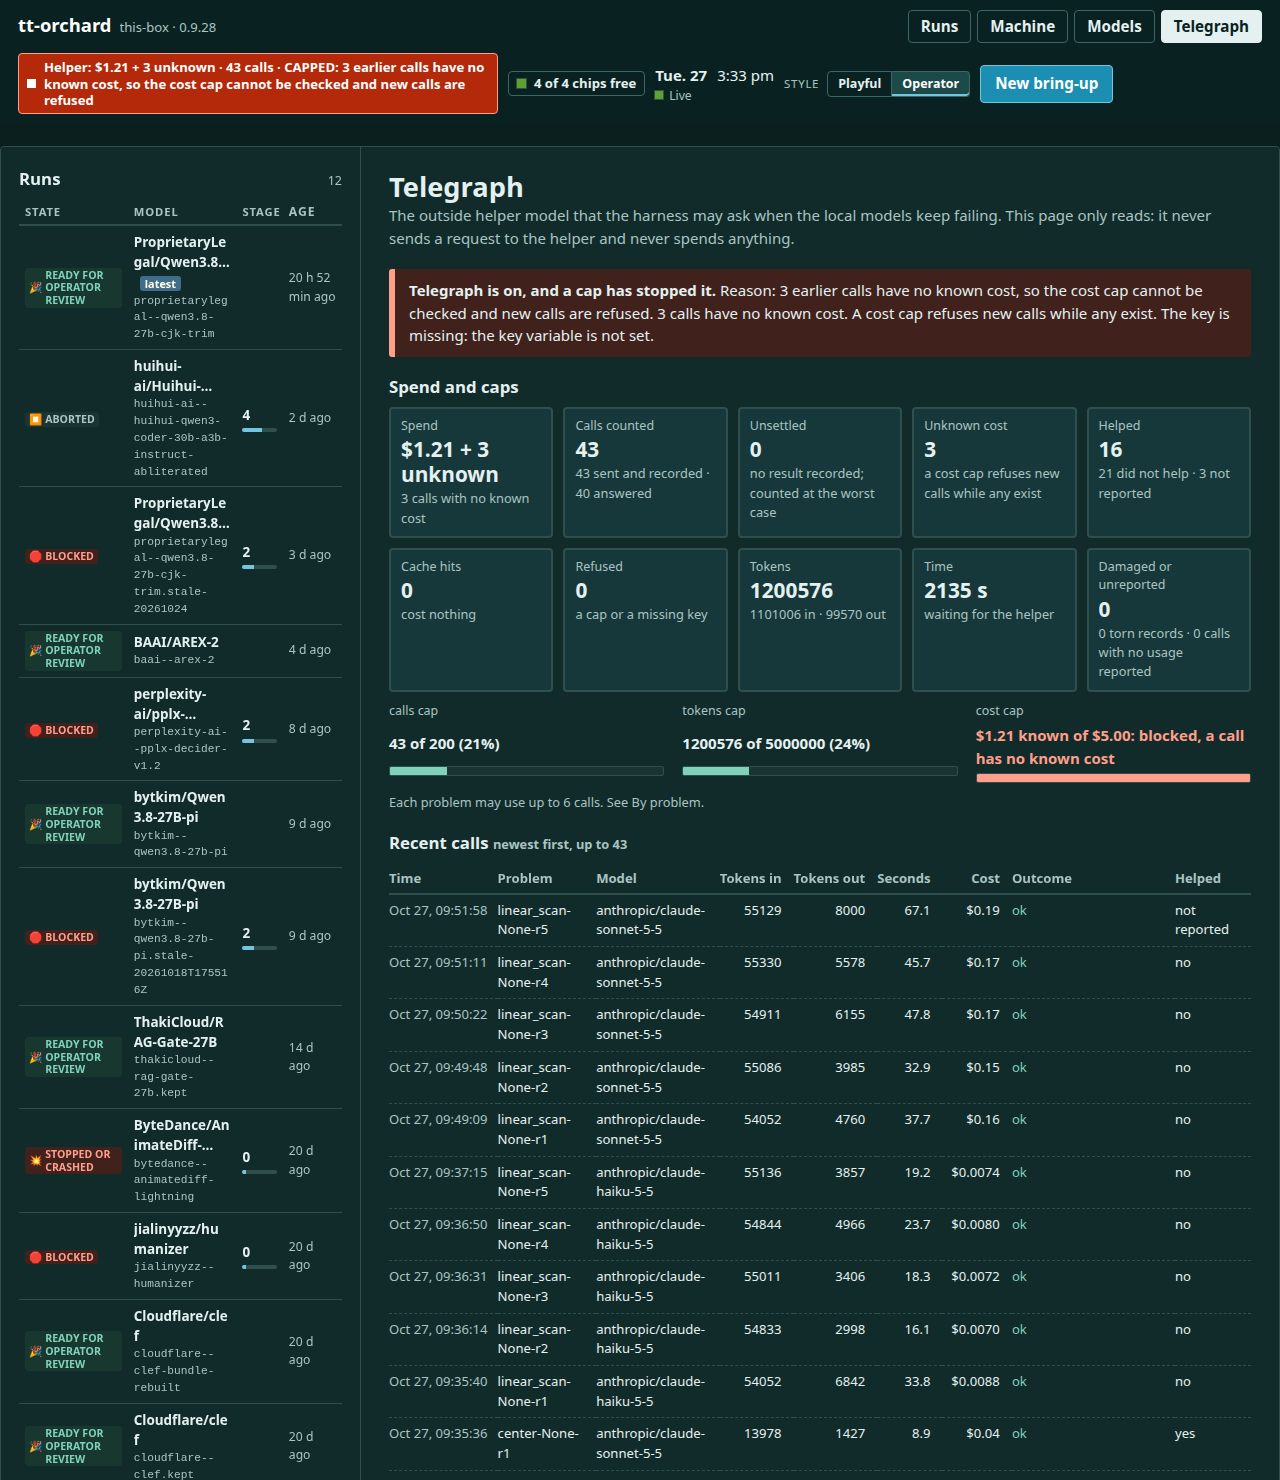
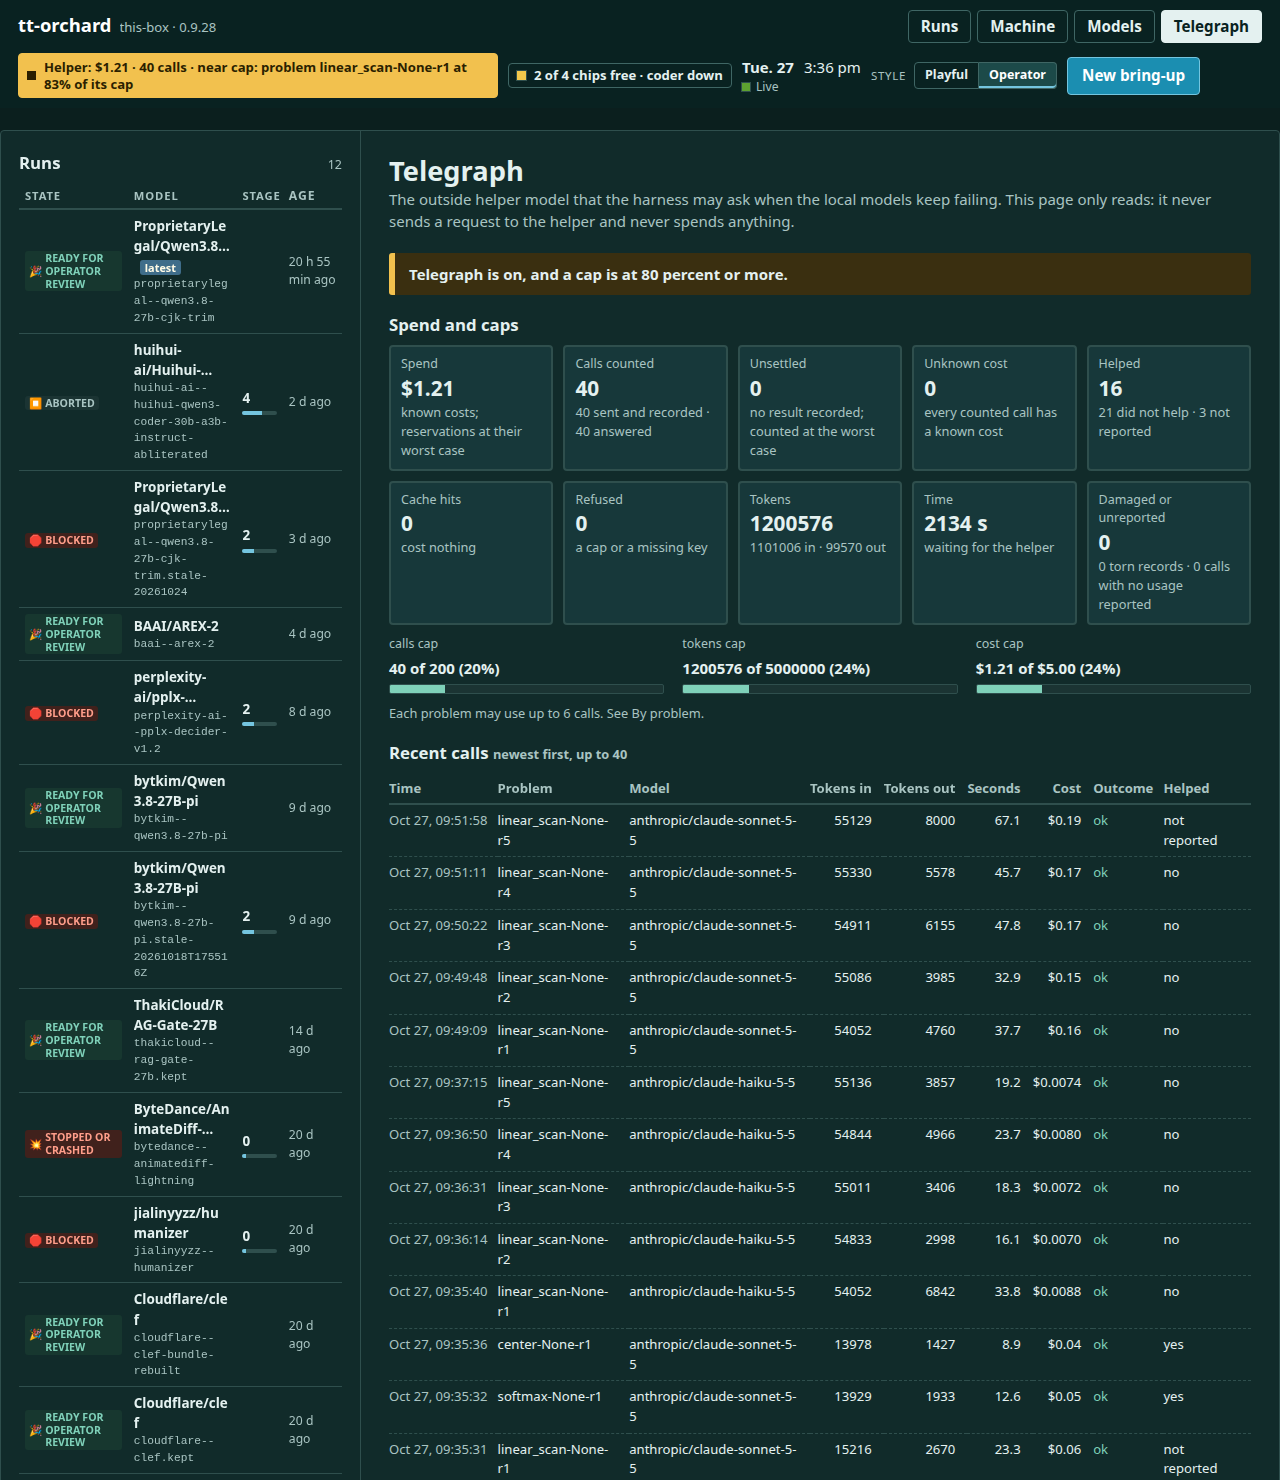
docs: Telegraph screenshots without the three failed calls (40 calls, $1.21); captions follow

diff --git a/site/index.html b/site/index.html
@@ -457,7 +457,7 @@
   const CAP = {
     running: "A run in progress, taken while a real validation run was in stage 2: the coder model is parked while a test uses its boards. The page says what is happening now and what, if anything, to do next, and sets each result against what it should be.",
     finished: "A finished run: each stage with its wall time. Stages 3, 5 and 6 are skipped by design on a weights-only model.",
-    telegraph: "The Telegraph view, reading the ledger of 43 real helper calls made while testing which outside model fixes a failing kernel fastest ($1.21 in all). The page only reads the ledger and spends nothing. It is in the capped state because three earlier calls (to a wrong endpoint, so they errored) have no known cost, and a cost cap cannot be checked while any exist. The configuration shown is a placeholder: an example host and no key.",
+    telegraph: "The Telegraph view, reading the ledger of 40 real helper calls made while testing which outside model fixes a failing kernel fastest ($1.21 in all). The page only reads the ledger and spends nothing. The meter is amber because one problem has used 5 of the 6 calls the configuration allows it. The configuration shown is a placeholder: an example host and a dummy key variable.",
     blocked: "A blocked run: the reason, what was tried, and a verdict line that sets the numbers against what they should be. This one found a reference check that failed while the agent's file said it passed.",
   };
   const shot = { k: "running", m: "operator" };

diff --git a/docs/project-log.md b/docs/project-log.md
@@ -2571,7 +2571,7 @@ Two findings Copilot left open on PR 109 were filed as issues. Each is fixed tes
 
 ## 2026-10-28 (UTC): the telegraph log is backfilled, and the Telegraph view is in the README and on the site (branch `telegraph-screenshots`, version 0.9.31)
 Prompts (operator): "can we backfill our telegraph spend and usage log?", then "screenshot a populated telegraph report for the website and readme".
-- Backfill: the six ledgers that the helper evaluation of 2026-10-27 wrote (Haiku 5.5, Sonnet 5.5, Qwen3-32B and its galaxy variant; 80 lines, 40 reply files) were merged in time order into the default telegraph directory, which did not exist yet. Each original line is kept verbatim and `backfill-sources.json` there records the sha256 of each source. Result: 43 calls (40 answered), 1,101,006 tokens in and 99,570 out, $1.21 known (Sonnet $1.13, Haiku $0.08, Qwen3-32B free), and 3 calls with no known cost (the galaxy calls, which errored). Nothing else made helper calls without a ledger that was found, so the log holds only what those six ledgers recorded. The virtual (local) spend is a separate feature (PR 115).
-- Screenshots: `scripts/telegraph_screenshots.py` takes the Telegraph view in both styles from a running `tt-orchard ui` that has a `[telegraph]` table, with the same host, home and credential checks as `site_screenshots.py`. The config used was a copy of the machine's bringup config plus a placeholder `[telegraph]` table (example host, no key, prices for the three models). The page only reads the ledger. The view shows the capped state, because three earlier calls have no known cost and a cost cap cannot be checked while any exist; the pictures and their captions say so. A first attempt cropped the view element and the sticky top bar covered its top; the script now captures the top of the page at a fixed size.
+- Backfill: the ledgers that the helper evaluation of 2026-10-27 wrote (Haiku 5.5, Sonnet 5.5 and Qwen3-32B) were merged in time order into the default telegraph directory, which did not exist yet. Each original line is kept verbatim and `backfill-sources.json` there records the sha256 of each source file. Three calls that errored against a wrong endpoint and cost nothing were left out at the operator's request. Result: 40 calls, all answered, 1,101,006 tokens in and 99,570 out, $1.21 (Sonnet $1.13, Haiku $0.08, Qwen3-32B free). Helper calls that left no ledger are not in it. The virtual (local) spend is a separate feature (PR 115).
+- Screenshots: `scripts/telegraph_screenshots.py` takes the Telegraph view in both styles from a running `tt-orchard ui` that has a `[telegraph]` table, with the same host, home and credential checks as `site_screenshots.py`. The config used was a copy of the machine's bringup config plus a placeholder `[telegraph]` table (example host, a dummy key variable that nothing uses, prices for the three models). The page only reads the ledger. The meter is amber because one problem has used 5 of the 6 calls the placeholder config allows it. A first attempt cropped the view element and the sticky top bar covered its top; the script now captures the top of the page at a fixed size.
 - The README shows both pictures in section 5.1's screenshot area; the site's screenshot tabs have a Telegraph tab with both styles.
 - A slip: PR 111's base was the `telegraph` branch, so merging it did not put it on `main`. It reached `main` through PR 129 after the web server restart did not show the view.

diff --git a/README.md b/README.md
@@ -584,9 +584,9 @@ the research setting are under **Options**, and the line says what they are now.
 ![New bring-up: the model field, the closed Options line, Run checks as the main button](docs/ui/operator-new-bringup.png)
 
 The Telegraph view (section 5.9g) shows what the outside helper has cost: spend against each cap, every call, and the totals by model
-and by problem. This one reads the ledger of 43 real helper calls made while comparing outside models on failing kernels ($1.21 in all).
-It is capped because three earlier calls, made to a wrong endpoint, have no known cost, and a cost cap cannot be checked while any call
-has an unknown cost. The configuration is a placeholder with an example host and no key.
+and by problem. This one reads the ledger of 40 real helper calls made while comparing outside models on failing kernels ($1.21 in all).
+The meter is amber because one problem has used 5 of the 6 calls the configuration allows it. The configuration is a placeholder with an
+example host and a dummy key variable. The page only reads the ledger, so nothing was sent or spent for the picture.
 
 ![Operator style, the Telegraph view: spend and caps, recent calls, totals by model and by problem](docs/ui/operator-telegraph.png)
 
